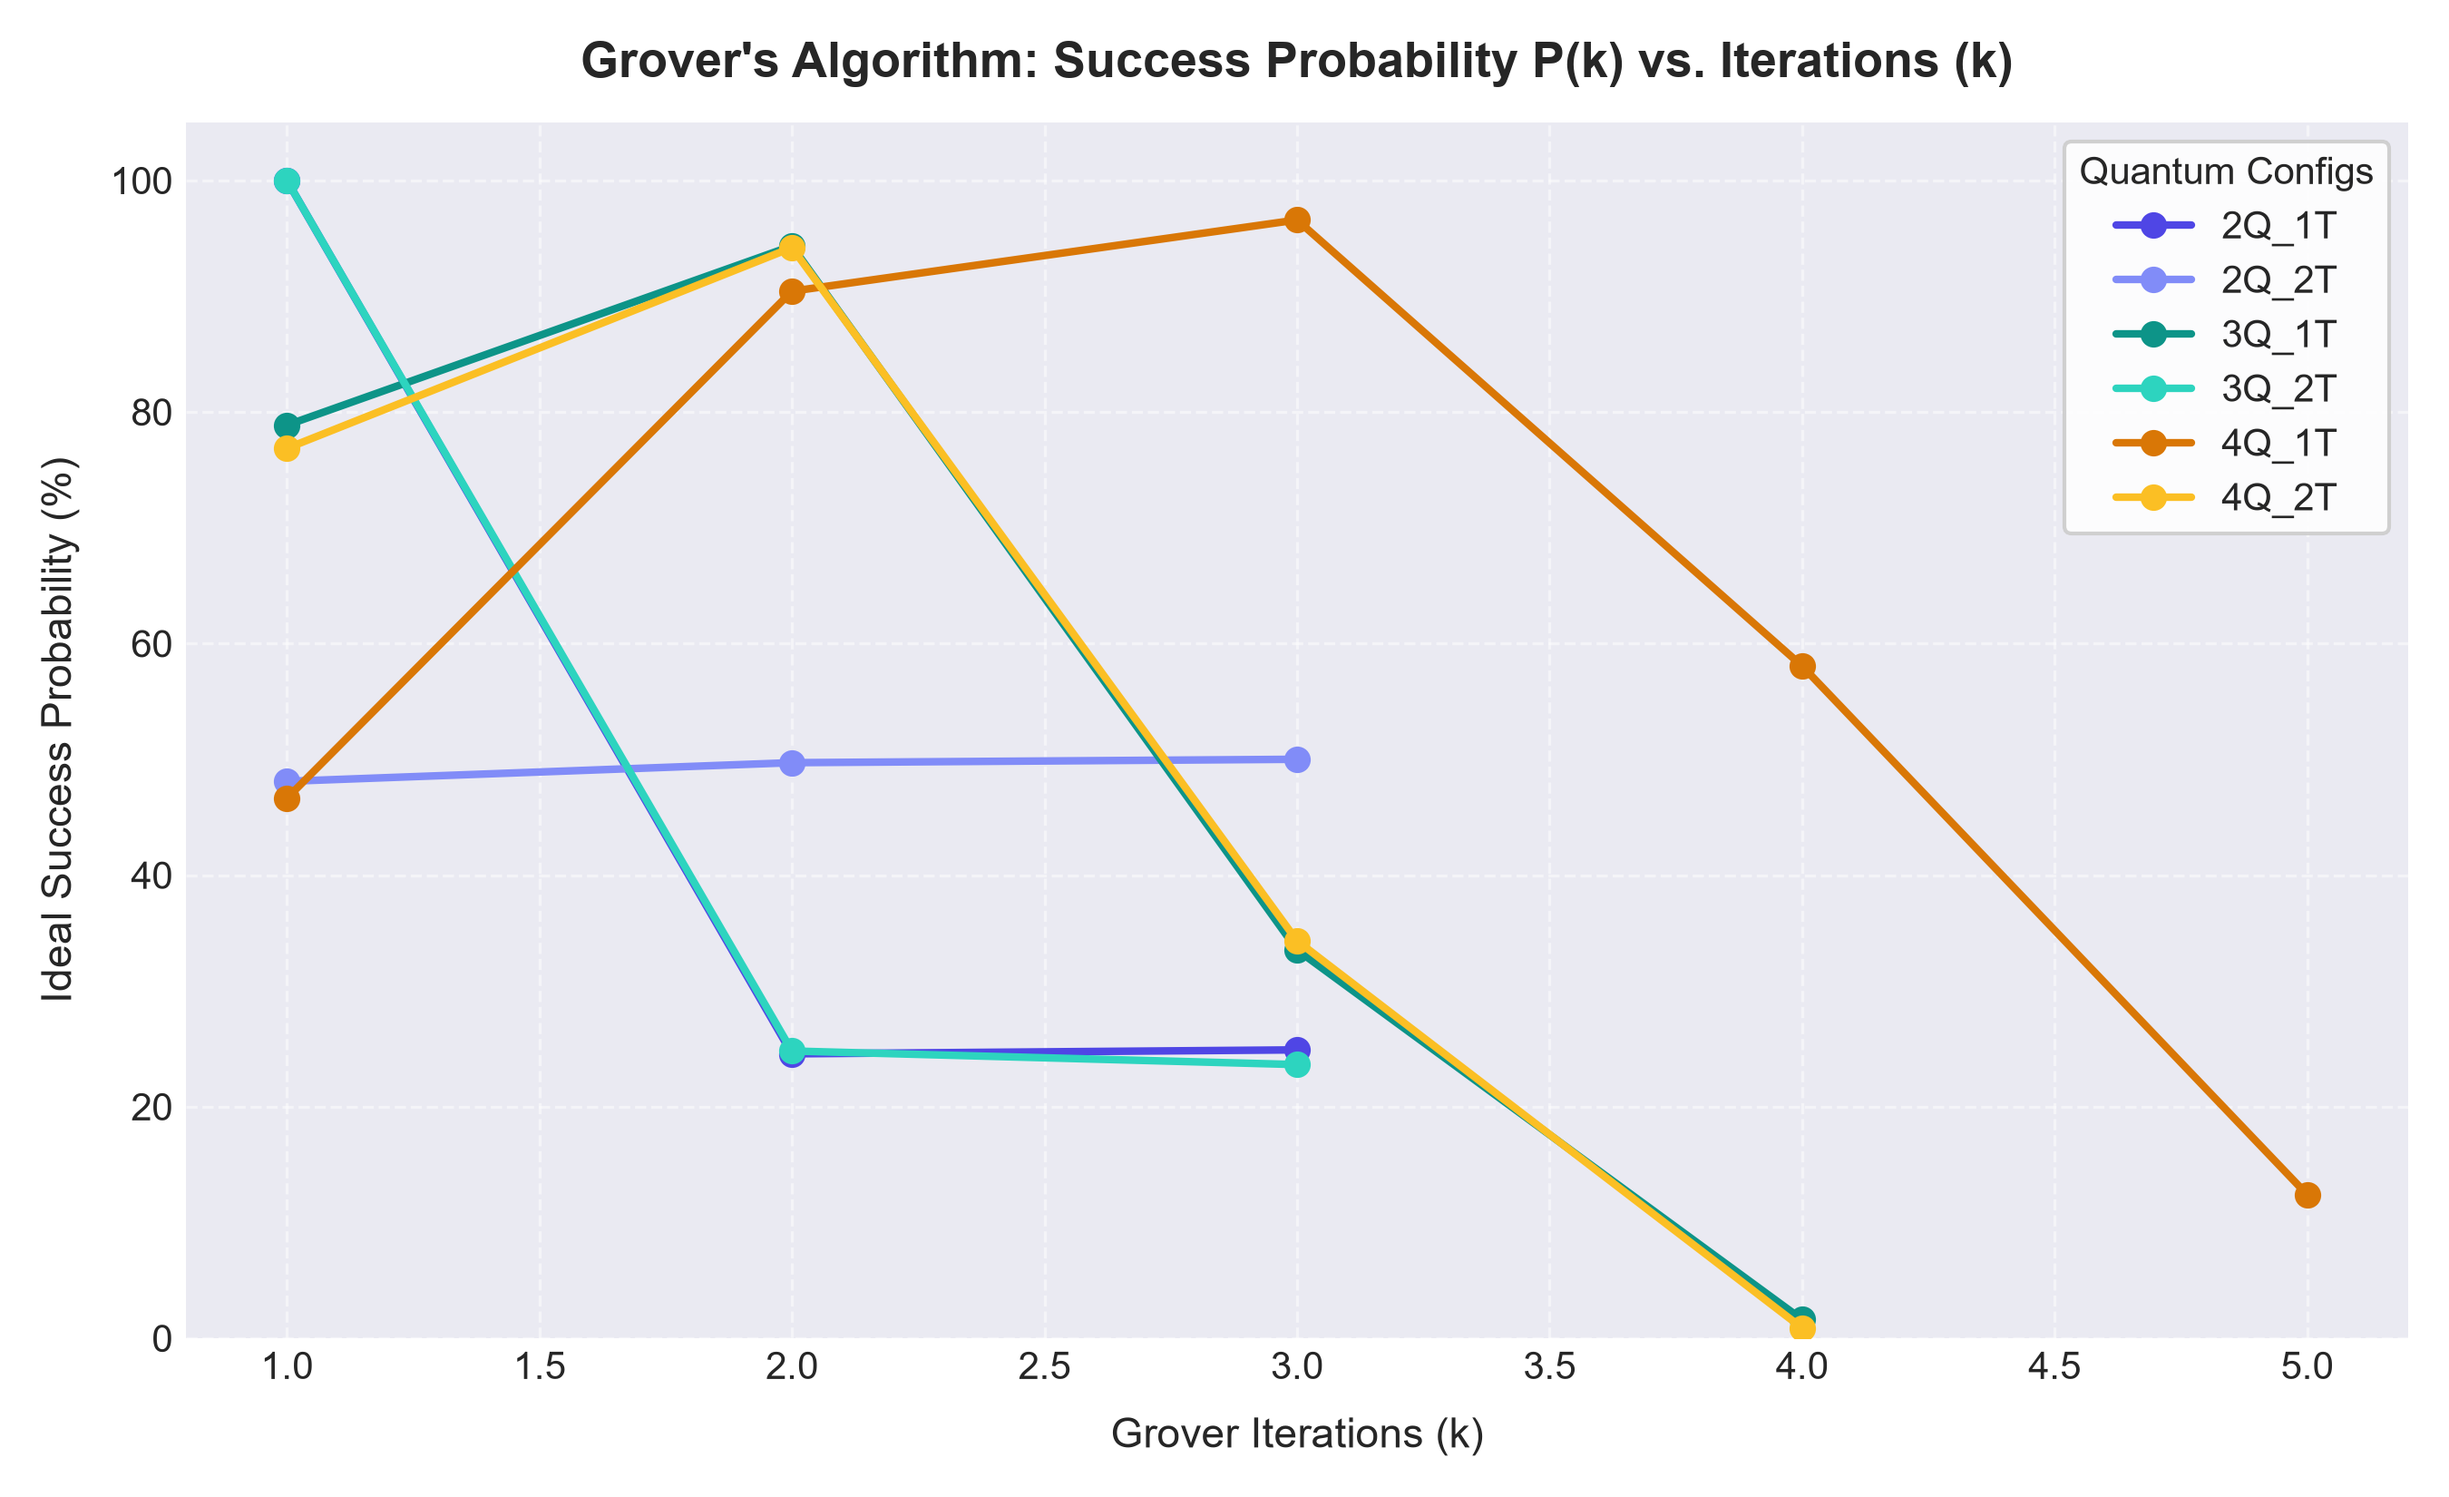
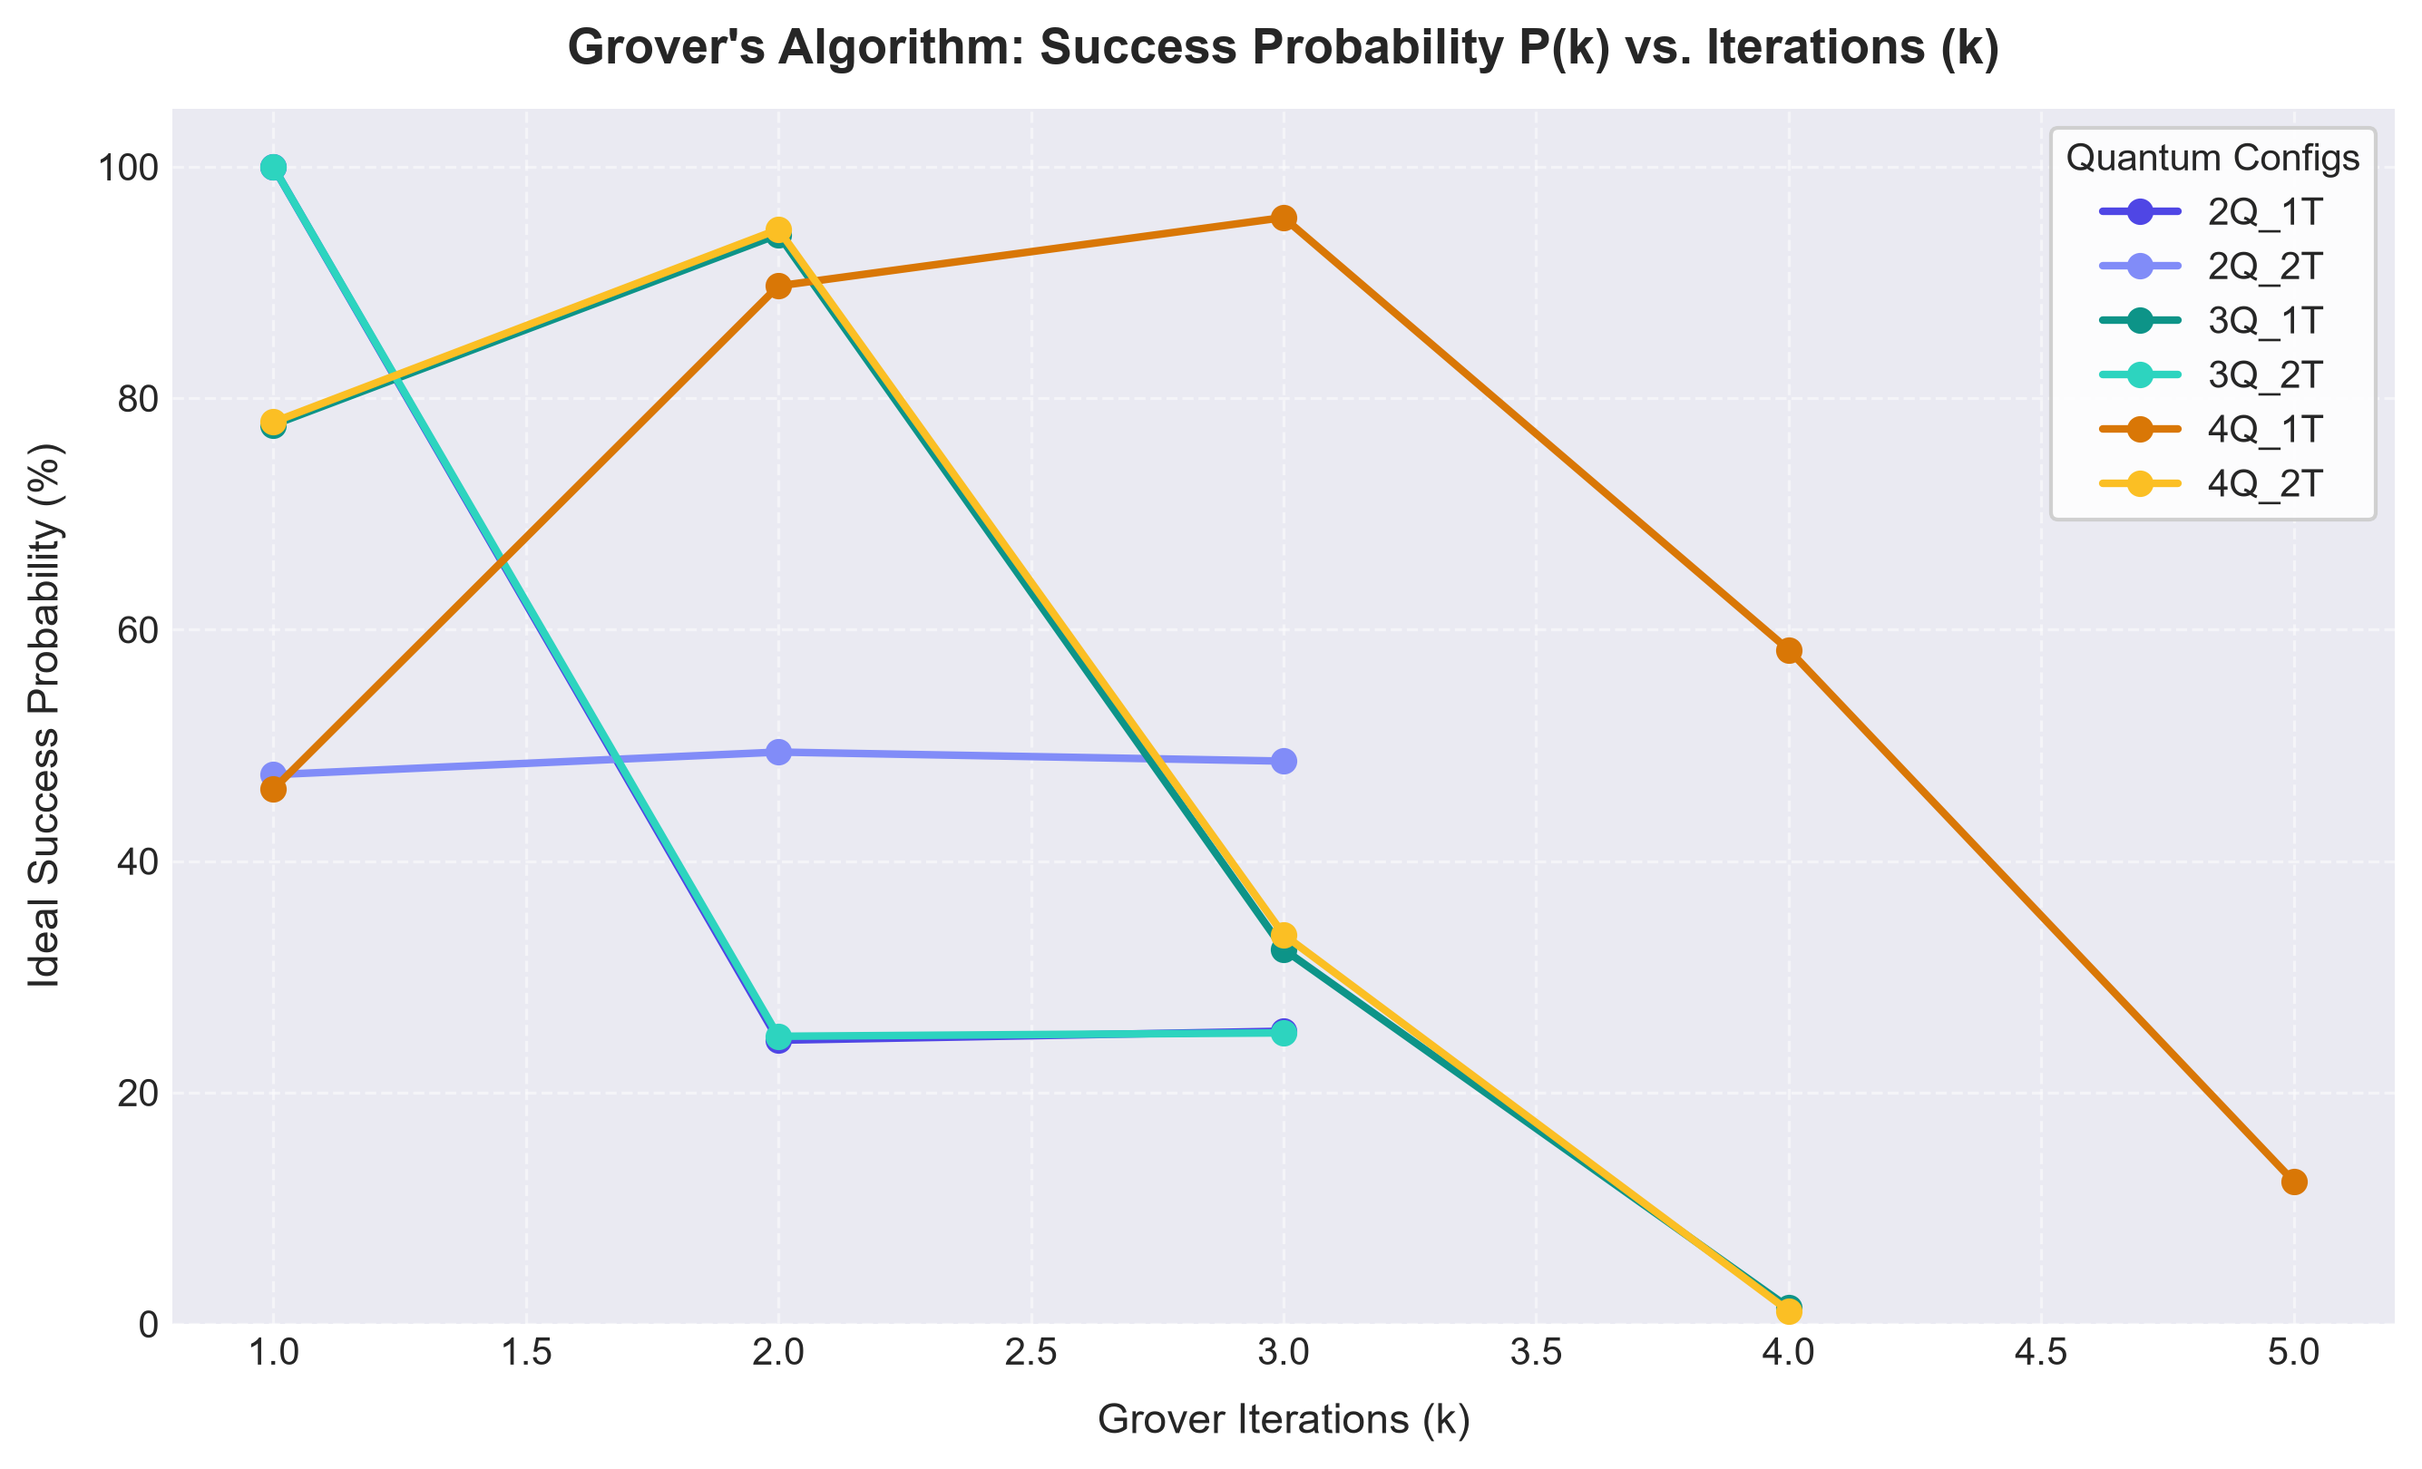
Fix plot image fitting and padding for Real Qiskit benchmark graphs in KeyFindings

diff --git a/src/components/benchmark/KeyFindings.tsx b/src/components/benchmark/KeyFindings.tsx
@@ -95,19 +95,23 @@ export const KeyFindings: React.FC = () => {
         <div className="grid grid-cols-1 sm:grid-cols-2 gap-4 pt-2">
           <div className="space-y-1">
             <span className="text-[11px] font-mono text-slate-400 block">Iteration Sweep P(k) Plot</span>
-            <img
-              src="/results/success_prob_vs_iterations.png"
-              alt="Success Probability vs Iterations"
-              className="rounded-lg border border-slate-700 w-full h-36 object-cover bg-slate-950"
-            />
+            <a href="/results/success_prob_vs_iterations.png" target="_blank" rel="noopener noreferrer">
+              <img
+                src="/results/success_prob_vs_iterations.png"
+                alt="Success Probability vs Iterations"
+                className="rounded-lg border border-slate-700 w-full h-52 sm:h-64 object-contain bg-slate-950/90 p-1 hover:border-quantum-simulated transition-colors"
+              />
+            </a>
           </div>
           <div className="space-y-1">
             <span className="text-[11px] font-mono text-slate-400 block">SDS Score vs Degradation Scatter Plot</span>
-            <img
-              src="/results/sds_vs_degradation.png"
-              alt="SDS vs Degradation Correlation"
-              className="rounded-lg border border-slate-700 w-full h-36 object-cover bg-slate-950"
-            />
+            <a href="/results/sds_vs_degradation.png" target="_blank" rel="noopener noreferrer">
+              <img
+                src="/results/sds_vs_degradation.png"
+                alt="SDS vs Degradation Correlation"
+                className="rounded-lg border border-slate-700 w-full h-52 sm:h-64 object-contain bg-slate-950/90 p-1 hover:border-quantum-theoretical transition-colors"
+              />
+            </a>
           </div>
         </div>
       </div>

diff --git a/python/run_experiments.py b/python/run_experiments.py
@@ -165,8 +165,8 @@ def generate_plots(sweep_data: Dict, sds_results: List[Dict], tuning_report: Dic
     ax.grid(True, linestyle='--', alpha=0.5)
     
     plt.tight_layout()
-    plt.savefig("python/results/success_prob_vs_iterations.png")
-    plt.savefig("public/results/success_prob_vs_iterations.png")
+    plt.savefig("python/results/success_prob_vs_iterations.png", bbox_inches='tight', pad_inches=0.1)
+    plt.savefig("public/results/success_prob_vs_iterations.png", bbox_inches='tight', pad_inches=0.1)
     plt.close()
     
     # -------------------------------------------------------------
@@ -204,8 +204,8 @@ def generate_plots(sweep_data: Dict, sds_results: List[Dict], tuning_report: Dic
     ax.grid(True, linestyle='--', alpha=0.5)
     
     plt.tight_layout()
-    plt.savefig("python/results/sds_vs_degradation.png")
-    plt.savefig("public/results/sds_vs_degradation.png")
+    plt.savefig("python/results/sds_vs_degradation.png", bbox_inches='tight', pad_inches=0.1)
+    plt.savefig("public/results/sds_vs_degradation.png", bbox_inches='tight', pad_inches=0.1)
     plt.close()
     
     print("  - Saved plot: success_prob_vs_iterations.png")
